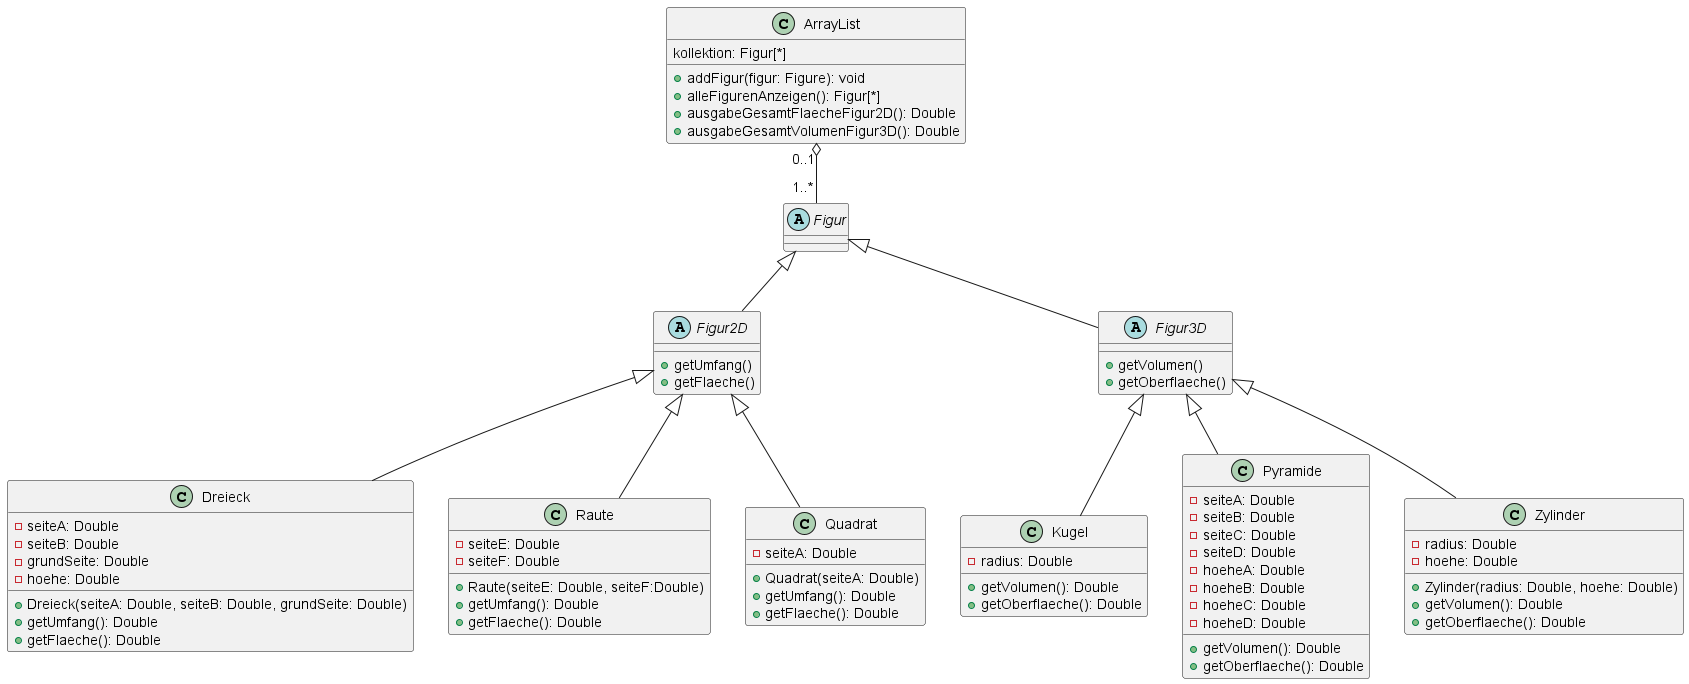
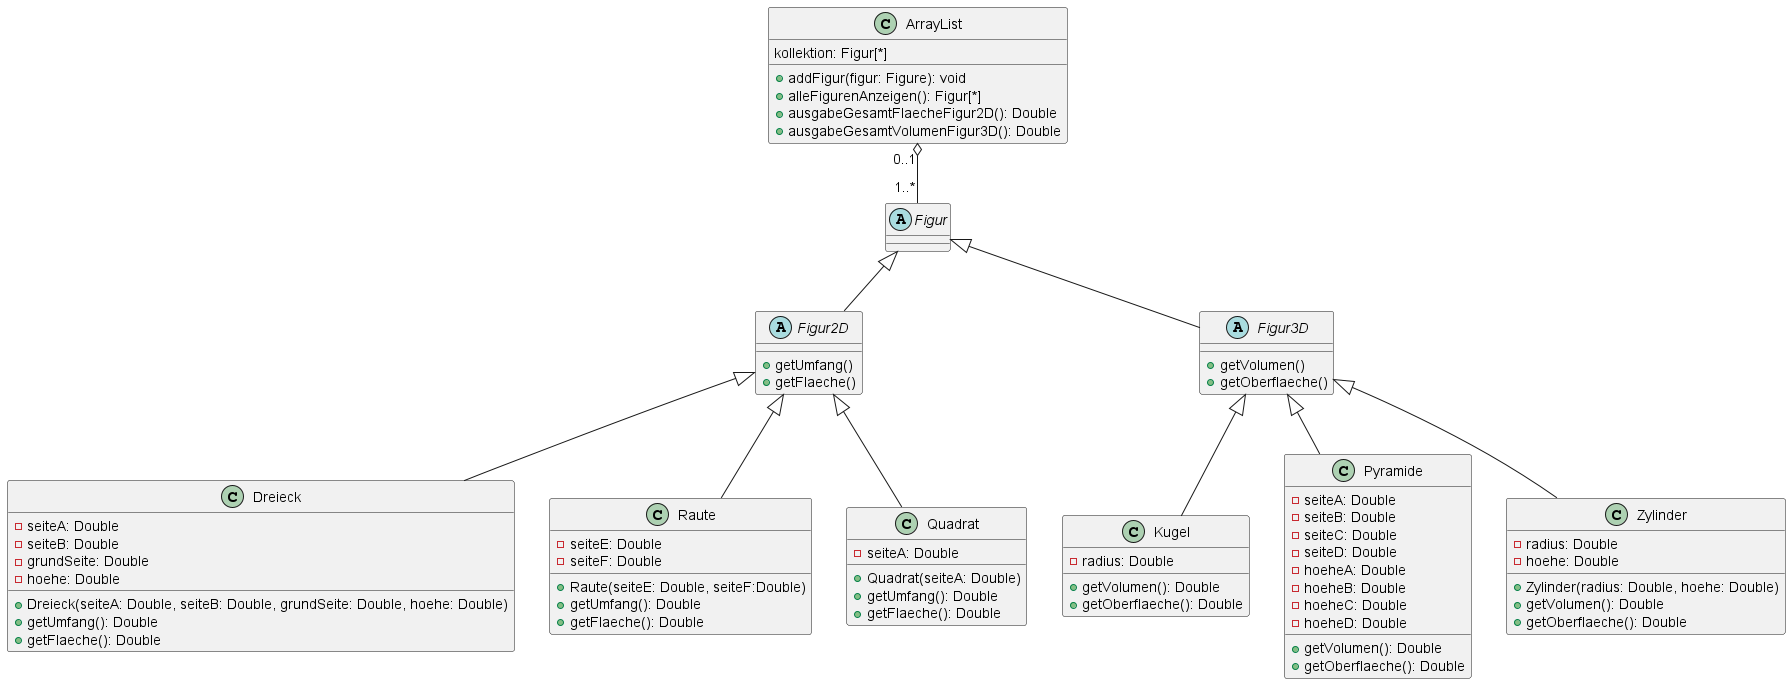
develop: figure implementations

diff --git a/softwaredevelopment/Pyramide.java b/softwaredevelopment/Pyramide.java
@@ -1,0 +1,27 @@
+package softwaredevelopment;
+
+public class Pyramide extends
+{
+    private double seiteA;
+    private double seiteB;
+    private double seiteC;
+    private double seiteD;
+    
+    private double hoeheA;
+    private double hoeheB;
+    private double hoeheC;
+    private double hoeheD;
+
+    public Pyramide(double seiteA, double seiteB, double seiteC, double seiteD, double hoeheA, double hoeheB, double hoeheC, double hoeheD) {
+        this.seiteA = seiteA;
+        this.seiteB = seiteB;
+        this.seiteC = seiteC;
+        this.seiteD = seiteD;
+        this.hoeheA = hoeheA;
+        this.hoeheB = hoeheB;
+        this.hoeheC = hoeheC;
+        this.hoeheD = hoeheD;
+    }
+
+    public
+}

diff --git a/softwaredevelopment/Dreieck.java b/softwaredevelopment/Dreieck.java
@@ -1,0 +1,26 @@
+package softwaredevelopment;
+
+
+public class Dreieck extends Figur2D
+{
+    private double seiteA;
+    private double seiteB;
+    private double grundseite;
+    private double hoehe;
+
+    public Dreieck(double a, double b, double grundseite, double hoehe)
+    {
+        this.seiteA = a;
+        this.seiteB = b;
+        this.grundseite = grundseite;
+        this.hoehe = hoehe;
+    }
+    public double getUmfang() 
+    {
+        return this.seiteA + this.seiteB + this.grundseite;
+    }
+    public double getFlaeche()
+    {
+        return this.grundseite / 2 * this.hoehe;
+    }
+}

diff --git a/oldfiles/Gericht.java b/oldfiles/Gericht.java
@@ -2,18 +2,13 @@
  * Click nbfs://nbhost/SystemFileSystem/Templates/Licenses/license-default.txt to change this license
  * Click nbfs://nbhost/SystemFileSystem/Templates/Classes/Class.java to edit this template
  */
-package softwaredevelopment;
+package oldfiles;
 
 /**
  *
  * @author eugen
  */
-public abstract class Sonderbestellung implements Gericht{
+public interface Gericht {
     
-    public Gericht gericht;
-    
-    public Sonderbestellung(Gericht gericht) {
-        
-        this.gericht = gericht;
-    }
+    public String beschreibung();
 }

diff --git a/oldfiles/Sonderbestellung.java b/oldfiles/Sonderbestellung.java
@@ -2,13 +2,18 @@
  * Click nbfs://nbhost/SystemFileSystem/Templates/Licenses/license-default.txt to change this license
  * Click nbfs://nbhost/SystemFileSystem/Templates/Classes/Class.java to edit this template
  */
-package softwaredevelopment;
+package oldfiles;
 
 /**
  *
  * @author eugen
  */
-public interface Gericht {
+public abstract class Sonderbestellung implements Gericht{
     
-    public String beschreibung();
+    public Gericht gericht;
+    
+    public Sonderbestellung(Gericht gericht) {
+        
+        this.gericht = gericht;
+    }
 }

diff --git a/softwaredevelopment/Raute.java b/softwaredevelopment/Raute.java
@@ -1,0 +1,25 @@
+package softwaredevelopment;
+
+public class Raute extends Figur2D 
+{
+    private double seiteE;
+    private double seiteF;
+    private double seiteA;
+
+    public Raute(double e, double f, double a) 
+    {
+        this.seiteE = e;
+        this.seiteF = f;
+        this.seiteA = a;
+    }
+
+    public double getUmfang()
+    {
+        return 4 * this.seiteA;
+    }
+
+    public double getFlaeche()
+    {
+        return 0.5 * this.seiteE * this.seiteF;
+    }
+}

diff --git a/softwaredevelopment/Kugel.java b/softwaredevelopment/Kugel.java
@@ -1,0 +1,22 @@
+package softwaredevelopment;
+
+public class Kugel extends Figur3D
+{
+    private double radius;
+    
+    public Kugel(double r)
+    {
+        this.radius = r;
+    }
+
+    public double getVolumen() 
+    {
+        return 4 / 3 * Math.PI * Math.pow(this.radius, 3);
+
+    }
+
+    public double getOberflaeche()
+    {
+        return 4 * Math.PI * Math.pow(this.radius, 2);
+    }
+}

diff --git a/softwaredevelopment/Quadrat.java b/softwaredevelopment/Quadrat.java
@@ -1,0 +1,21 @@
+package softwaredevelopment;
+
+public class Quadrat extends Figur2D
+{
+    private double seiteA;
+    
+    public Quadrat(double a)
+    {
+        this.seiteA = a;
+    }
+
+    public double getUmfang() 
+    {
+        return 4 * this.seiteA;    
+    }
+
+    public double getFlaeche() 
+    {
+        return this.seiteA * this.seiteA;
+    }
+}

diff --git a/oldfiles/Vegetarisch.java b/oldfiles/Vegetarisch.java
@@ -2,7 +2,7 @@
  * Click nbfs://nbhost/SystemFileSystem/Templates/Licenses/license-default.txt to change this license
  * Click nbfs://nbhost/SystemFileSystem/Templates/Classes/Class.java to edit this template
  */
-package softwaredevelopment;
+package oldfiles;
 
 /**
  *

diff --git a/oldfiles/School.java b/oldfiles/School.java
@@ -1,7 +1,7 @@
 /*
  * Click nbfs://nbhost/SystemFileSystem/Templates/Licenses/license-default.txt to change this license
  */
-package com.mycompany.school;
+package oldfiles;
 
 ;
 

diff --git a/softwaredevelopment/Figur3D.java b/softwaredevelopment/Figur3D.java
@@ -1,0 +1,7 @@
+package softwaredevelopment;
+
+abstract class Figur3D extends Figur
+{
+    public abstract double getVolumen();
+    public abstract double getOberflaeche();
+}

diff --git a/softwaredevelopment/Figur2D.java b/softwaredevelopment/Figur2D.java
@@ -1,0 +1,7 @@
+package softwaredevelopment;
+
+abstract class Figur2D extends Figur
+{
+    public abstract double getUmfang();
+    public abstract double getFlaeche();
+}

diff --git a/softwaredevelopment/Figur.java b/softwaredevelopment/Figur.java
@@ -1,0 +1,5 @@
+package softwaredevelopment;
+
+abstract class Figur {
+
+}
